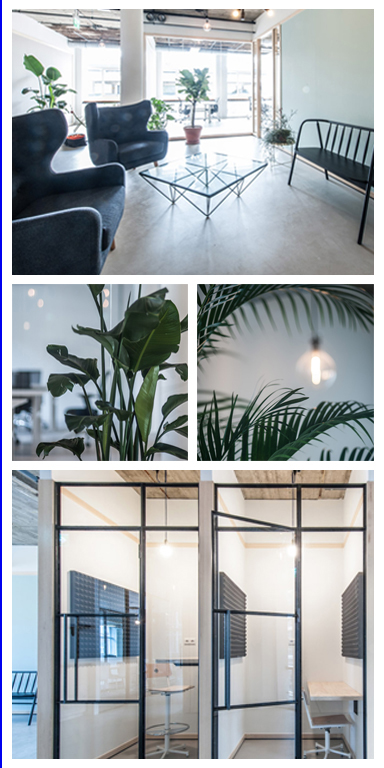
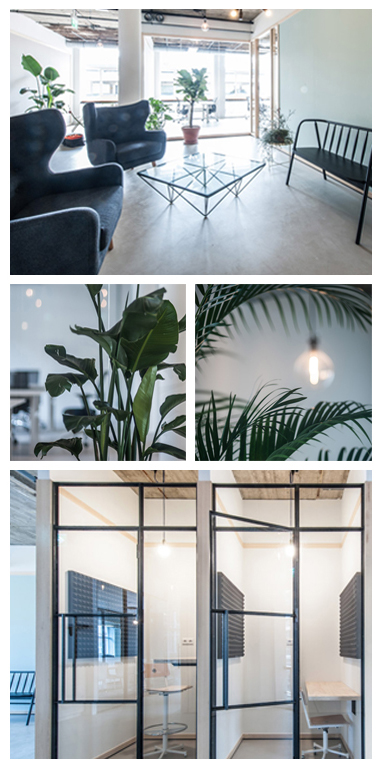
fixed homephoto

diff --git a/app/assets/stylesheets/custom.scss b/app/assets/stylesheets/custom.scss
@@ -54,8 +54,9 @@ body, html {
 .image-home {
   padding-left: 0px;
   img {
-    width: 100%;
-    height: auto;
+    width: auto;
+    float: right;
+    height: 100%;
      /*max-height: 768px; /* CUSTOM ACCORDING TO IMAGE PROVIDED */
   }
 }
